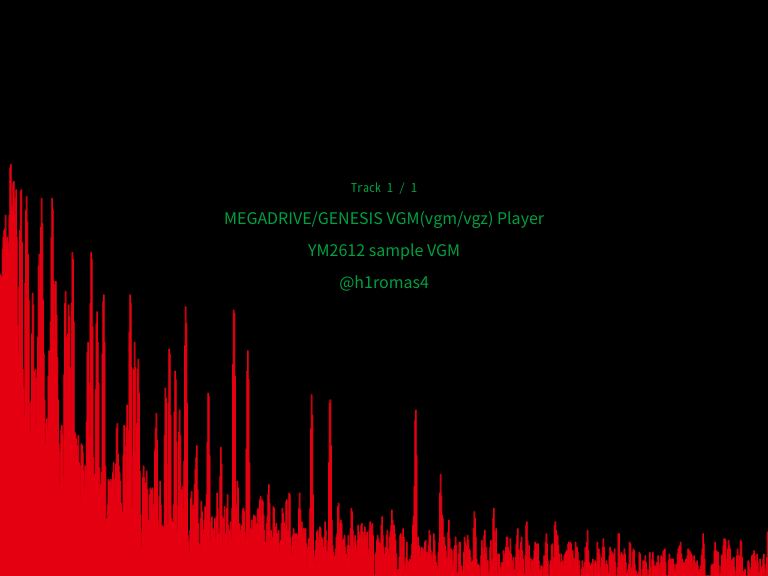
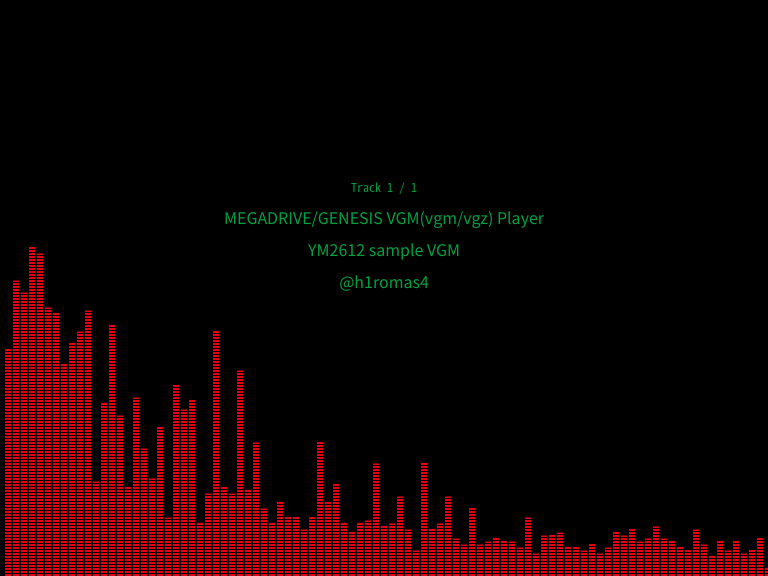
change visualizer draw line

Changed region(s): [[0.0, 0.2812, 1.0, 1.0]]

diff --git a/docs/0.bootstrap.js b/docs/0.bootstrap.js
@@ -31,7 +31,7 @@ eval("\"use strict\";\n// Instantiate WebAssembly module\nvar wasmExports = __we
 /***/ (function(module, __webpack_exports__, __webpack_require__) {
 
 "use strict";
-eval("__webpack_require__.r(__webpack_exports__);\n/* harmony import */ var wasm_vgm_player__WEBPACK_IMPORTED_MODULE_0__ = __webpack_require__(/*! wasm-vgm-player */ \"./pkg/wasm_vgm_player.js\");\n/* harmony import */ var wasm_vgm_player_wasm_vgm_player_bg__WEBPACK_IMPORTED_MODULE_1__ = __webpack_require__(/*! wasm-vgm-player/wasm_vgm_player_bg */ \"./pkg/wasm_vgm_player_bg.wasm\");\n\n // vgm setting\n\nvar MAX_SAMPLING_BUFFER = 4096;\nvar SAMPLING_RATE = 44100;\nvar LOOP_MAX_COUNT = 2;\nvar FEED_OUT_SECOND = 2;\nvar FEED_OUT_REMAIN = SAMPLING_RATE * FEED_OUT_SECOND / MAX_SAMPLING_BUFFER; // canvas settings\n\nvar CANVAS_WIDTH = 768;\nvar CANVAS_HEIGHT = 576;\nvar COLOR_MD_GREEN = '#00a040';\nvar COLOR_MD_RED = '#e60012';\nvar FONT_MAIN_STYLE = '16px sans-serif'; // vgm member\n\nvar vgmplay = null;\nvar vgmdata;\nvar samplingBufferL;\nvar samplingBufferR;\nvar feedOutCount = 0;\nvar playlist = [];\nvar totalPlaylistCount;\nvar vgm_gd3;\n/**\n * audio context\n */\n\nvar audioContext = null;\nvar audioNode = null;\nvar audioGain;\nvar audioAnalyser;\nvar audioAnalyserBuffer;\nvar audioAnalyserBufferLength; // canvas member\n\nvar canvas;\nvar canvasContext;\nvar animId = null; // canvas setting\n\ncanvas = document.getElementById('screen');\ncanvas.setAttribute('width', CANVAS_WIDTH);\ncanvas.setAttribute('height', CANVAS_HEIGHT);\nvar pixelRatio = window.devicePixelRatio ? window.devicePixelRatio : 1;\n\nif (pixelRatio > 1 && window.screen.width < CANVAS_WIDTH) {\n  canvas.style.width = 320 + \"px\";\n  canvas.style.heigth = 240 + \"px\";\n}\n\ncanvasContext = canvas.getContext('2d');\n/**\n * load sample vgm data\n */\n\nfetch('./vgm/ym2612.vgm').then(function (response) {\n  return response.arrayBuffer();\n}).then(function (bytes) {\n  init(bytes);\n}).then(function () {\n  canvas.addEventListener('click', play, false);\n  canvas.addEventListener('dragover', function (e) {\n    prevent(e);\n    canvas.style.border = '4px dotted #333333';\n    return false;\n  }, false);\n  canvas.addEventListener('dragleave', function (e) {\n    prevent(e);\n    canvas.style.border = 'none';\n    return false;\n  });\n  canvas.addEventListener('drop', onDrop, false); // for sample vgm\n\n  totalPlaylistCount = 1;\n  createGd3meta({\n    track_name: \"MEGADRIVE/GENESIS VGM(vgm/vgz) Player\",\n    track_name_j: \"\",\n    game_name: \"\",\n    game_name_j: \"YM2612 sample VGM\",\n    track_author: \"@h1romas4\",\n    track_author_j: \"\"\n  }); // ready to go\n\n  startScreen();\n});\n/**\n * fillTextCenterd\n */\n\nvar fillTextCenterd = function fillTextCenterd(str, height) {\n  var left = (CANVAS_WIDTH - canvasContext.measureText(str).width) / 2;\n  canvasContext.fillText(str, left, height);\n};\n/**\n * startScreen\n */\n\n\nvar startScreen = function startScreen() {\n  canvasContext.fillStyle = 'rgb(0, 0, 0)';\n  canvasContext.fillRect(0, 0, CANVAS_WIDTH, CANVAS_HEIGHT);\n  canvasContext.font = '20px sans-serif';\n  canvasContext.fillStyle = COLOR_MD_GREEN;\n  fillTextCenterd(\"DRAG AND DROP MEGADRIVE/GENESIS VGM(vgm/vgz) HEAR!\", CANVAS_HEIGHT / 2 - 64);\n  fillTextCenterd(\"OR CLICK TO PLAY SAMPLE VGM.\", CANVAS_HEIGHT / 2 - 32);\n};\n/**\n * event prevent\n */\n\n\nvar prevent = function prevent(e) {\n  e.preventDefault();\n  e.stopPropagation();\n};\n/**\n * Drag and Drop\n */\n\n\nvar onDrop = function onDrop(ev) {\n  prevent(ev);\n  canvas.removeEventListener('drop', onDrop, false);\n  canvas.style.border = 'none';\n  var filelist = {};\n  var files = ev.dataTransfer.files;\n  [].forEach.call(files, function (file) {\n    var reader = new FileReader();\n\n    reader.onload = function () {\n      filelist[file.name] = reader.result;\n\n      if (Object.keys(filelist).length >= files.length) {\n        canvas.addEventListener('drop', onDrop, false);\n        playlist = [];\n        Object.keys(filelist).sort().forEach(function (key) {\n          playlist.push(filelist[key]);\n        });\n        totalPlaylistCount = playlist.length;\n        next();\n      }\n    };\n\n    reader.readAsArrayBuffer(file);\n  });\n  return false;\n};\n/**\n * play next playlist\n */\n\n\nvar next = function next() {\n  if (playlist.length <= 0) return;\n\n  if (init(playlist.shift())) {\n    play();\n  } else {\n    next();\n  }\n};\n\nvar createGd3meta = function createGd3meta(gd3) {\n  vgm_gd3 = gd3;\n  vgm_gd3.game_track_name = [vgm_gd3.game_name, vgm_gd3.track_name].filter(function (str) {\n    return str != \"\";\n  }).join(\" | \");\n  vgm_gd3.game_track_name_j = [vgm_gd3.game_name_j, vgm_gd3.track_name_j].filter(function (str) {\n    return str != \"\";\n  }).join(\" / \");\n  vgm_gd3.track_author_full = [vgm_gd3.track_author, vgm_gd3.track_author_j].filter(function (str) {\n    return str != \"\";\n  }).join(\" - \");\n  canvasContext.font = FONT_MAIN_STYLE;\n  vgm_gd3.game_track_name_left = (CANVAS_WIDTH - canvasContext.measureText(vgm_gd3.game_track_name).width) / 2;\n  vgm_gd3.game_track_name_j_left = (CANVAS_WIDTH - canvasContext.measureText(vgm_gd3.game_track_name_j).width) / 2;\n  vgm_gd3.track_author_full_left = (CANVAS_WIDTH - canvasContext.measureText(vgm_gd3.track_author_full).width) / 2;\n};\n/**\n * init\n * @param ArrayBuffer bytes\n */\n\n\nvar init = function init(bytes) {\n  if (vgmplay != null) vgmplay.free(); // create wasm instanse\n\n  vgmplay = new wasm_vgm_player__WEBPACK_IMPORTED_MODULE_0__[\"WasmVgmPlay\"](MAX_SAMPLING_BUFFER, bytes.byteLength); // set vgmdata\n\n  vgmdata = new Uint8Array(wasm_vgm_player_wasm_vgm_player_bg__WEBPACK_IMPORTED_MODULE_1__[\"memory\"].buffer, vgmplay.get_vgmdata_ref(), bytes.byteLength);\n  vgmdata.set(new Uint8Array(bytes)); // init player\n\n  if (!vgmplay.init(SAMPLING_RATE)) return false;\n  samplingBufferL = new Float32Array(wasm_vgm_player_wasm_vgm_player_bg__WEBPACK_IMPORTED_MODULE_1__[\"memory\"].buffer, vgmplay.get_sampling_l_ref(), MAX_SAMPLING_BUFFER);\n  samplingBufferR = new Float32Array(wasm_vgm_player_wasm_vgm_player_bg__WEBPACK_IMPORTED_MODULE_1__[\"memory\"].buffer, vgmplay.get_sampling_r_ref(), MAX_SAMPLING_BUFFER);\n  createGd3meta(JSON.parse(vgmplay.get_vgm_gd3()));\n  return true;\n};\n/**\n * disconnect\n */\n\n\nvar disconnect = function disconnect() {\n  if (audioAnalyser != null) audioAnalyser.disconnect();\n  if (audioGain != null) audioGain.disconnect();\n  if (audioNode != null) audioNode.disconnect();\n  if (audioContext != null) audioContext.close();\n  audioAnalyser = null; // GC\n\n  audioNode = null; // GC\n\n  audioGain = null; // GC\n\n  audioContext = null;\n};\n/**\n * play\n */\n\n\nvar play = function play() {\n  canvas.removeEventListener('click', play, false); // init audio\n\n  disconnect();\n  audioContext = new (window.AudioContext || window.webkitAudioContext)({\n    sampleRate: SAMPLING_RATE\n  });\n  audioNode = audioContext.createScriptProcessor(MAX_SAMPLING_BUFFER, 2, 2);\n  feedOutCount = 0;\n\n  audioNode.onaudioprocess = function (ev) {\n    var loop = vgmplay.play();\n    ev.outputBuffer.getChannelData(0).set(samplingBufferL);\n    ev.outputBuffer.getChannelData(1).set(samplingBufferR);\n    var stop = false;\n\n    if (loop >= LOOP_MAX_COUNT) {\n      if (feedOutCount == 0 && loop > LOOP_MAX_COUNT) {\n        // no loop track\n        stop = true;\n      } else {\n        // feedout loop track\n        if (feedOutCount == 0) {\n          audioGain.gain.setValueAtTime(1, audioContext.currentTime);\n          audioGain.gain.linearRampToValueAtTime(0, audioContext.currentTime + FEED_OUT_SECOND);\n        }\n\n        feedOutCount++;\n\n        if (feedOutCount > FEED_OUT_REMAIN) {\n          stop = true;\n        }\n      }\n    }\n\n    if (stop) {\n      disconnect();\n      next();\n    }\n  }; // connect gain\n\n\n  audioGain = audioContext.createGain();\n  audioNode.connect(audioGain);\n  audioGain.connect(audioContext.destination);\n  audioGain.gain.setValueAtTime(1, audioContext.currentTime); // connect fft\n\n  audioAnalyser = audioContext.createAnalyser();\n  audioAnalyserBufferLength = audioAnalyser.frequencyBinCount;\n  audioAnalyserBuffer = new Uint8Array(audioAnalyserBufferLength);\n  audioAnalyser.getByteTimeDomainData(audioAnalyserBuffer);\n  audioGain.connect(audioAnalyser);\n\n  if (animId != null) {\n    window.cancelAnimationFrame(animId);\n    animId = null;\n  }\n\n  draw();\n};\n\nvar draw = function draw() {\n  animId = window.requestAnimationFrame(draw);\n  canvasContext.fillStyle = 'rgb(0, 0, 0)';\n  canvasContext.fillRect(0, 0, CANVAS_WIDTH, CANVAS_HEIGHT);\n\n  if (audioAnalyser != null) {\n    audioAnalyser.getByteFrequencyData(audioAnalyserBuffer);\n    canvasContext.lineWidth = 1;\n    canvasContext.beginPath();\n    canvasContext.strokeStyle = COLOR_MD_RED;\n    var width = CANVAS_WIDTH * 1.0 / audioAnalyserBufferLength;\n\n    for (var i = 0; i < audioAnalyserBufferLength; i++) {\n      var v = audioAnalyserBuffer[i] / 255;\n      var y = v * CANVAS_HEIGHT / 2;\n      canvasContext.rect(width * i, CANVAS_HEIGHT, width, -y * 1.5);\n    }\n\n    canvasContext.stroke();\n  }\n\n  canvasContext.font = \"12px monospace\";\n  canvasContext.fillStyle = COLOR_MD_GREEN;\n\n  if (totalPlaylistCount >= 1) {\n    fillTextCenterd(\"Track \" + (totalPlaylistCount - playlist.length) + \" / \" + totalPlaylistCount, CANVAS_HEIGHT / 2 - 96);\n  }\n\n  canvasContext.font = FONT_MAIN_STYLE;\n  canvasContext.fillText(vgm_gd3.game_track_name, vgm_gd3.game_track_name_left, CANVAS_HEIGHT / 2 - 64);\n  canvasContext.fillText(vgm_gd3.game_track_name_j, vgm_gd3.game_track_name_j_left, CANVAS_HEIGHT / 2 - 32);\n  canvasContext.fillText(vgm_gd3.track_author_full, vgm_gd3.track_author_full_left, CANVAS_HEIGHT / 2);\n};\n\n//# sourceURL=webpack:///./src/js/index.js?");
+eval("__webpack_require__.r(__webpack_exports__);\n/* harmony import */ var wasm_vgm_player__WEBPACK_IMPORTED_MODULE_0__ = __webpack_require__(/*! wasm-vgm-player */ \"./pkg/wasm_vgm_player.js\");\n/* harmony import */ var wasm_vgm_player_wasm_vgm_player_bg__WEBPACK_IMPORTED_MODULE_1__ = __webpack_require__(/*! wasm-vgm-player/wasm_vgm_player_bg */ \"./pkg/wasm_vgm_player_bg.wasm\");\n\n // vgm setting\n\nvar MAX_SAMPLING_BUFFER = 4096;\nvar SAMPLING_RATE = 44100;\nvar LOOP_MAX_COUNT = 2;\nvar FEED_OUT_SECOND = 2;\nvar FEED_OUT_REMAIN = SAMPLING_RATE * FEED_OUT_SECOND / MAX_SAMPLING_BUFFER; // canvas settings\n\nvar CANVAS_WIDTH = 768;\nvar CANVAS_HEIGHT = 576;\nvar COLOR_MD_GREEN = '#00a040';\nvar COLOR_MD_RED = '#e60012';\nvar FONT_MAIN_STYLE = '16px sans-serif'; // vgm member\n\nvar vgmplay = null;\nvar vgmdata;\nvar samplingBufferL;\nvar samplingBufferR;\nvar feedOutCount = 0;\nvar playlist = [];\nvar totalPlaylistCount;\nvar vgm_gd3;\n/**\n * audio context\n */\n\nvar audioContext = null;\nvar audioNode = null;\nvar audioGain;\nvar audioAnalyser;\nvar audioAnalyserBuffer;\nvar audioAnalyserBufferLength; // canvas member\n\nvar canvas;\nvar canvasContext;\nvar animId = null; // canvas setting\n\ncanvas = document.getElementById('screen');\ncanvas.setAttribute('width', CANVAS_WIDTH);\ncanvas.setAttribute('height', CANVAS_HEIGHT);\nvar pixelRatio = window.devicePixelRatio ? window.devicePixelRatio : 1;\n\nif (pixelRatio > 1 && window.screen.width < CANVAS_WIDTH) {\n  canvas.style.width = 320 + \"px\";\n  canvas.style.heigth = 240 + \"px\";\n}\n\ncanvasContext = canvas.getContext('2d');\n/**\n * load sample vgm data\n */\n\nfetch('./vgm/ym2612.vgm').then(function (response) {\n  return response.arrayBuffer();\n}).then(function (bytes) {\n  init(bytes);\n}).then(function () {\n  canvas.addEventListener('click', play, false);\n  canvas.addEventListener('dragover', function (e) {\n    prevent(e);\n    canvas.style.border = '4px dotted #333333';\n    return false;\n  }, false);\n  canvas.addEventListener('dragleave', function (e) {\n    prevent(e);\n    canvas.style.border = 'none';\n    return false;\n  });\n  canvas.addEventListener('drop', onDrop, false); // for sample vgm\n\n  totalPlaylistCount = 1;\n  createGd3meta({\n    track_name: \"MEGADRIVE/GENESIS VGM(vgm/vgz) Player\",\n    track_name_j: \"\",\n    game_name: \"\",\n    game_name_j: \"YM2612 sample VGM\",\n    track_author: \"@h1romas4\",\n    track_author_j: \"\"\n  }); // ready to go\n\n  startScreen();\n});\n/**\n * fillTextCenterd\n */\n\nvar fillTextCenterd = function fillTextCenterd(str, height) {\n  var left = (CANVAS_WIDTH - canvasContext.measureText(str).width) / 2;\n  canvasContext.fillText(str, left, height);\n};\n/**\n * startScreen\n */\n\n\nvar startScreen = function startScreen() {\n  canvasContext.fillStyle = 'rgb(0, 0, 0)';\n  canvasContext.fillRect(0, 0, CANVAS_WIDTH, CANVAS_HEIGHT);\n  canvasContext.font = '20px sans-serif';\n  canvasContext.fillStyle = COLOR_MD_GREEN;\n  fillTextCenterd(\"DRAG AND DROP MEGADRIVE/GENESIS VGM(vgm/vgz) HEAR!\", CANVAS_HEIGHT / 2 - 64);\n  fillTextCenterd(\"OR CLICK TO PLAY SAMPLE VGM.\", CANVAS_HEIGHT / 2 - 32);\n};\n/**\n * event prevent\n */\n\n\nvar prevent = function prevent(e) {\n  e.preventDefault();\n  e.stopPropagation();\n};\n/**\n * Drag and Drop\n */\n\n\nvar onDrop = function onDrop(ev) {\n  prevent(ev);\n  canvas.removeEventListener('drop', onDrop, false);\n  canvas.style.border = 'none';\n  var filelist = {};\n  var files = ev.dataTransfer.files;\n  [].forEach.call(files, function (file) {\n    var reader = new FileReader();\n\n    reader.onload = function () {\n      filelist[file.name] = reader.result;\n\n      if (Object.keys(filelist).length >= files.length) {\n        canvas.addEventListener('drop', onDrop, false);\n        playlist = [];\n        Object.keys(filelist).sort().forEach(function (key) {\n          playlist.push(filelist[key]);\n        });\n        totalPlaylistCount = playlist.length;\n        next();\n      }\n    };\n\n    reader.readAsArrayBuffer(file);\n  });\n  return false;\n};\n/**\n * play next playlist\n */\n\n\nvar next = function next() {\n  if (playlist.length <= 0) return;\n\n  if (init(playlist.shift())) {\n    play();\n  } else {\n    next();\n  }\n};\n\nvar createGd3meta = function createGd3meta(gd3) {\n  vgm_gd3 = gd3;\n  vgm_gd3.game_track_name = [vgm_gd3.game_name, vgm_gd3.track_name].filter(function (str) {\n    return str != \"\";\n  }).join(\" | \");\n  vgm_gd3.game_track_name_j = [vgm_gd3.game_name_j, vgm_gd3.track_name_j].filter(function (str) {\n    return str != \"\";\n  }).join(\" / \");\n  vgm_gd3.track_author_full = [vgm_gd3.track_author, vgm_gd3.track_author_j].filter(function (str) {\n    return str != \"\";\n  }).join(\" - \");\n  canvasContext.font = FONT_MAIN_STYLE;\n  vgm_gd3.game_track_name_left = (CANVAS_WIDTH - canvasContext.measureText(vgm_gd3.game_track_name).width) / 2;\n  vgm_gd3.game_track_name_j_left = (CANVAS_WIDTH - canvasContext.measureText(vgm_gd3.game_track_name_j).width) / 2;\n  vgm_gd3.track_author_full_left = (CANVAS_WIDTH - canvasContext.measureText(vgm_gd3.track_author_full).width) / 2;\n};\n/**\n * init\n * @param ArrayBuffer bytes\n */\n\n\nvar init = function init(bytes) {\n  if (vgmplay != null) vgmplay.free(); // create wasm instanse\n\n  vgmplay = new wasm_vgm_player__WEBPACK_IMPORTED_MODULE_0__[\"WasmVgmPlay\"](MAX_SAMPLING_BUFFER, bytes.byteLength); // set vgmdata\n\n  vgmdata = new Uint8Array(wasm_vgm_player_wasm_vgm_player_bg__WEBPACK_IMPORTED_MODULE_1__[\"memory\"].buffer, vgmplay.get_vgmdata_ref(), bytes.byteLength);\n  vgmdata.set(new Uint8Array(bytes)); // init player\n\n  if (!vgmplay.init(SAMPLING_RATE)) return false;\n  samplingBufferL = new Float32Array(wasm_vgm_player_wasm_vgm_player_bg__WEBPACK_IMPORTED_MODULE_1__[\"memory\"].buffer, vgmplay.get_sampling_l_ref(), MAX_SAMPLING_BUFFER);\n  samplingBufferR = new Float32Array(wasm_vgm_player_wasm_vgm_player_bg__WEBPACK_IMPORTED_MODULE_1__[\"memory\"].buffer, vgmplay.get_sampling_r_ref(), MAX_SAMPLING_BUFFER);\n  createGd3meta(JSON.parse(vgmplay.get_vgm_gd3()));\n  return true;\n};\n/**\n * disconnect\n */\n\n\nvar disconnect = function disconnect() {\n  if (audioAnalyser != null) audioAnalyser.disconnect();\n  if (audioGain != null) audioGain.disconnect();\n  if (audioNode != null) audioNode.disconnect();\n  if (audioContext != null) audioContext.close();\n  audioAnalyser = null; // GC\n\n  audioNode = null; // GC\n\n  audioGain = null; // GC\n\n  audioContext = null;\n};\n/**\n * play\n */\n\n\nvar play = function play() {\n  canvas.removeEventListener('click', play, false); // init audio\n\n  disconnect();\n  audioContext = new (window.AudioContext || window.webkitAudioContext)({\n    sampleRate: SAMPLING_RATE\n  });\n  audioNode = audioContext.createScriptProcessor(MAX_SAMPLING_BUFFER, 2, 2);\n  feedOutCount = 0;\n\n  audioNode.onaudioprocess = function (ev) {\n    var loop = vgmplay.play();\n    ev.outputBuffer.getChannelData(0).set(samplingBufferL);\n    ev.outputBuffer.getChannelData(1).set(samplingBufferR);\n    var stop = false;\n\n    if (loop >= LOOP_MAX_COUNT) {\n      if (feedOutCount == 0 && loop > LOOP_MAX_COUNT) {\n        // no loop track\n        stop = true;\n      } else {\n        // feedout loop track\n        if (feedOutCount == 0) {\n          audioGain.gain.setValueAtTime(1, audioContext.currentTime);\n          audioGain.gain.linearRampToValueAtTime(0, audioContext.currentTime + FEED_OUT_SECOND);\n        }\n\n        feedOutCount++;\n\n        if (feedOutCount > FEED_OUT_REMAIN) {\n          stop = true;\n        }\n      }\n    }\n\n    if (stop) {\n      disconnect();\n      next();\n    }\n  }; // connect gain\n\n\n  audioGain = audioContext.createGain();\n  audioNode.connect(audioGain);\n  audioGain.connect(audioContext.destination);\n  audioGain.gain.setValueAtTime(1, audioContext.currentTime); // connect fft\n\n  audioAnalyser = audioContext.createAnalyser();\n  audioAnalyserBufferLength = audioAnalyser.frequencyBinCount;\n  audioAnalyserBuffer = new Uint8Array(audioAnalyserBufferLength);\n  audioAnalyser.getByteTimeDomainData(audioAnalyserBuffer);\n  audioGain.connect(audioAnalyser);\n\n  if (animId != null) {\n    window.cancelAnimationFrame(animId);\n    animId = null;\n  }\n\n  draw();\n};\n\nvar draw = function draw() {\n  animId = window.requestAnimationFrame(draw);\n  canvasContext.fillStyle = 'rgb(0, 0, 0)';\n  canvasContext.fillRect(0, 0, CANVAS_WIDTH, CANVAS_HEIGHT);\n\n  if (audioAnalyser != null) {\n    audioAnalyser.getByteFrequencyData(audioAnalyserBuffer);\n    canvasContext.lineWidth = 1;\n    canvasContext.beginPath();\n    canvasContext.strokeStyle = COLOR_MD_RED;\n    var width = 8;\n    canvasContext.setLineDash([2, 1]);\n    canvasContext.lineWidth = width - 2;\n\n    for (var i = 0; i < audioAnalyserBufferLength; i += width) {\n      canvasContext.beginPath();\n      canvasContext.moveTo(i + width, CANVAS_HEIGHT);\n      canvasContext.lineTo(i + width, CANVAS_HEIGHT - audioAnalyserBuffer[i] * 1.5);\n      canvasContext.stroke();\n    }\n\n    canvasContext.stroke();\n  }\n\n  canvasContext.font = \"12px monospace\";\n  canvasContext.fillStyle = COLOR_MD_GREEN;\n\n  if (totalPlaylistCount >= 1) {\n    fillTextCenterd(\"Track \" + (totalPlaylistCount - playlist.length) + \" / \" + totalPlaylistCount, CANVAS_HEIGHT / 2 - 96);\n  }\n\n  canvasContext.font = FONT_MAIN_STYLE;\n  canvasContext.fillText(vgm_gd3.game_track_name, vgm_gd3.game_track_name_left, CANVAS_HEIGHT / 2 - 64);\n  canvasContext.fillText(vgm_gd3.game_track_name_j, vgm_gd3.game_track_name_j_left, CANVAS_HEIGHT / 2 - 32);\n  canvasContext.fillText(vgm_gd3.track_author_full, vgm_gd3.track_author_full_left, CANVAS_HEIGHT / 2);\n};\n\n//# sourceURL=webpack:///./src/js/index.js?");
 
 /***/ })
 

diff --git a/wasm-synth-player/src/js/index.js b/wasm-synth-player/src/js/index.js
@@ -263,12 +263,14 @@ let draw = function() {
         canvasContext.beginPath();
         canvasContext.strokeStyle = COLOR_MD_RED;
 
-        var width = CANVAS_WIDTH * 1.0 / audioAnalyserBufferLength;
-
-        for(var i = 0; i < audioAnalyserBufferLength; i++) {
-            var v = audioAnalyserBuffer[i] / 255;
-            var y = v * CANVAS_HEIGHT / 2;
-            canvasContext.rect(width * i, CANVAS_HEIGHT, width, -y * 1.5);
+        let width = 8;
+        canvasContext.setLineDash([2, 1]);
+        canvasContext.lineWidth = width - 2;
+        for(var i = 0; i < audioAnalyserBufferLength; i += width) {
+            canvasContext.beginPath();
+            canvasContext.moveTo(i + width, CANVAS_HEIGHT);
+            canvasContext.lineTo(i + width, CANVAS_HEIGHT - (audioAnalyserBuffer[i] * 1.5));
+            canvasContext.stroke()
         }
         canvasContext.stroke();
     }
